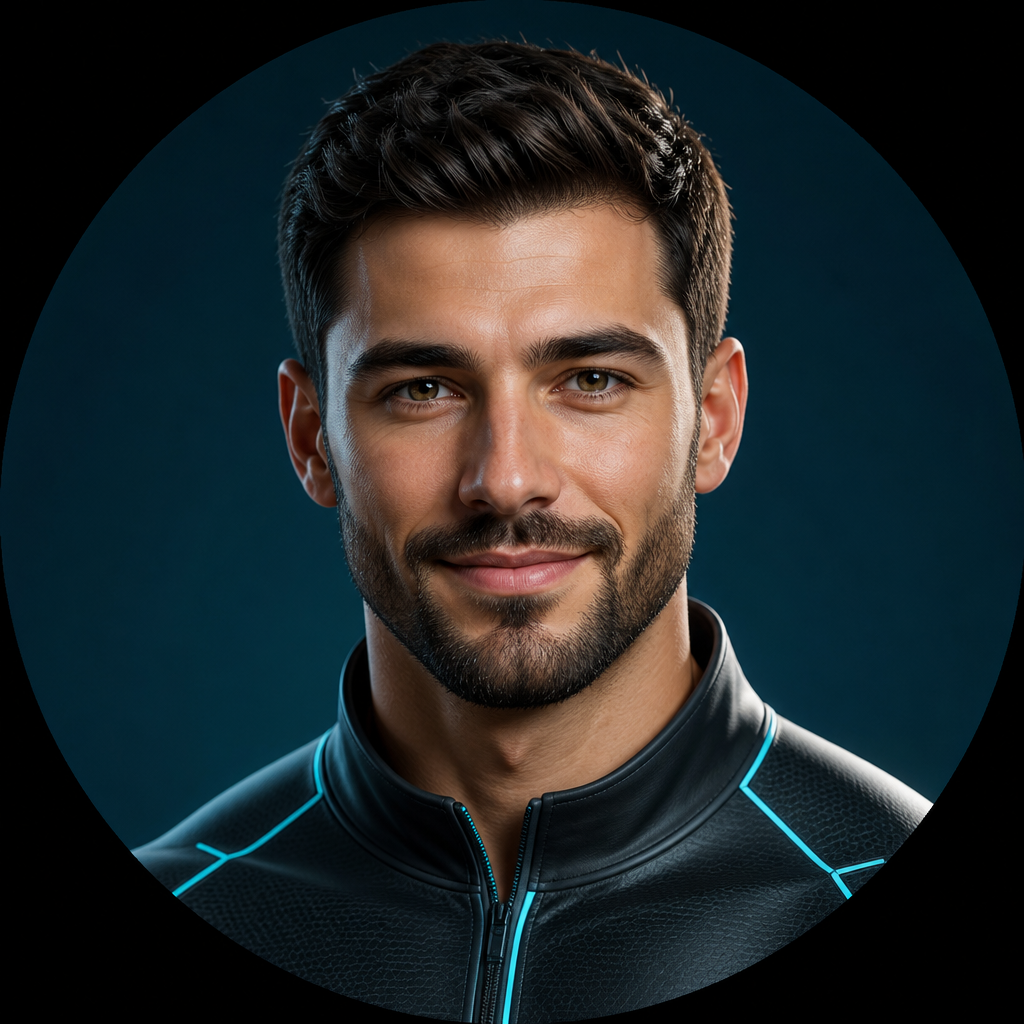
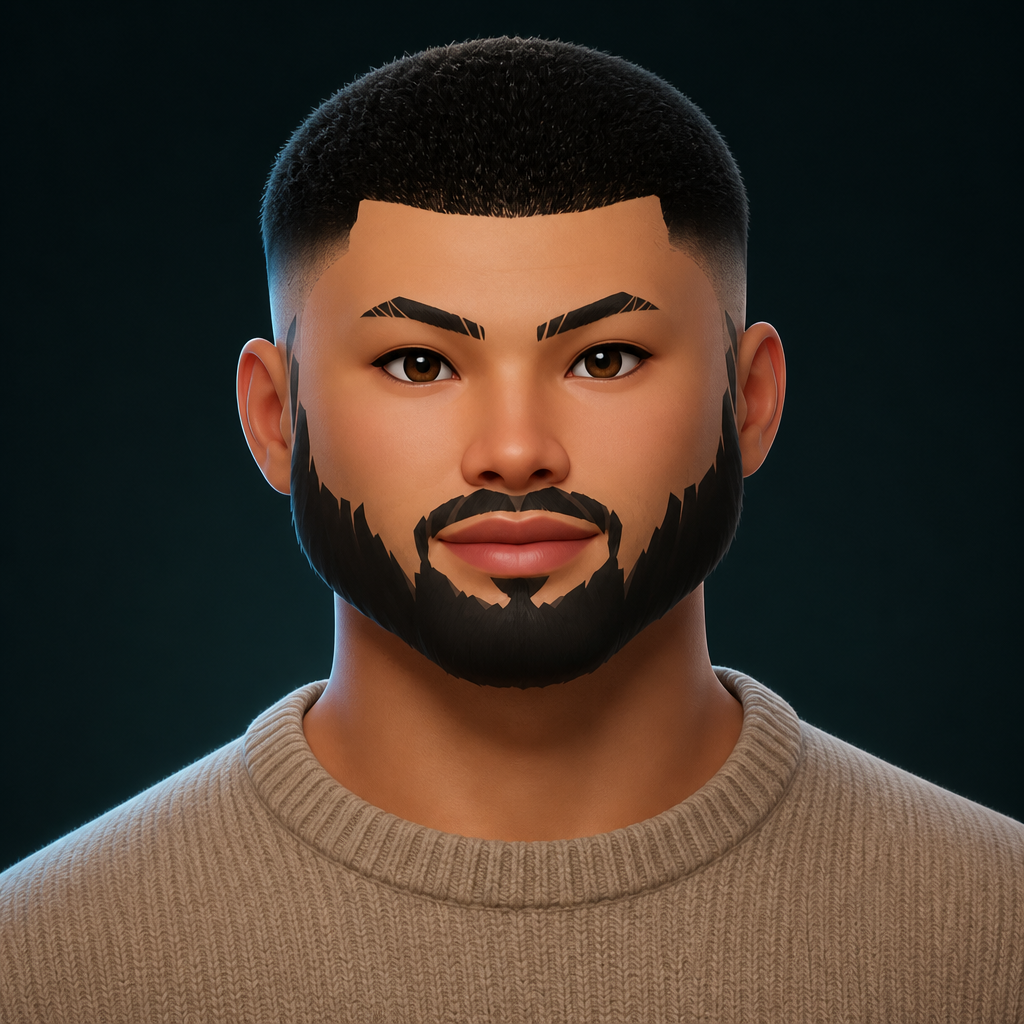
Replace tutor picker stock photos with stylized 3D headshots
Emma and Alex circle previews now use CG busts matching the in-app models, with a dark radial crop that sits on the modal theme.

diff --git a/src/components/CharacterAvatar.tsx b/src/components/CharacterAvatar.tsx
@@ -21,18 +21,18 @@ export function CharacterAvatar({
     <div className={cn("relative shrink-0", className)}>
       <div
         className={cn(
-          "h-full w-full overflow-hidden rounded-full",
-          framed && "shadow-sm ring-2 ring-white/80",
+          "h-full w-full overflow-hidden rounded-full bg-[#0a1210]",
+          framed && "ring-2 ring-white/18 shadow-[0_0_0_1px_rgba(0,0,0,0.45)]",
         )}
         style={{
-          background: `linear-gradient(145deg, ${character.accentColor}2b, ${character.accentColor}55)`,
+          background: `radial-gradient(circle at 50% 28%, ${character.accentColor}22 0%, #0a1210 72%)`,
         }}
       >
         {/* eslint-disable-next-line @next/next/no-img-element */}
         <img
           src={character.portraitUrl || character.avatarUrl || `/avatars/${character.id}.png`}
           alt=""
-          className="h-full w-full object-cover object-[center_18%]"
+          className="h-full w-full object-cover object-center"
           draggable={false}
         />
       </div>
